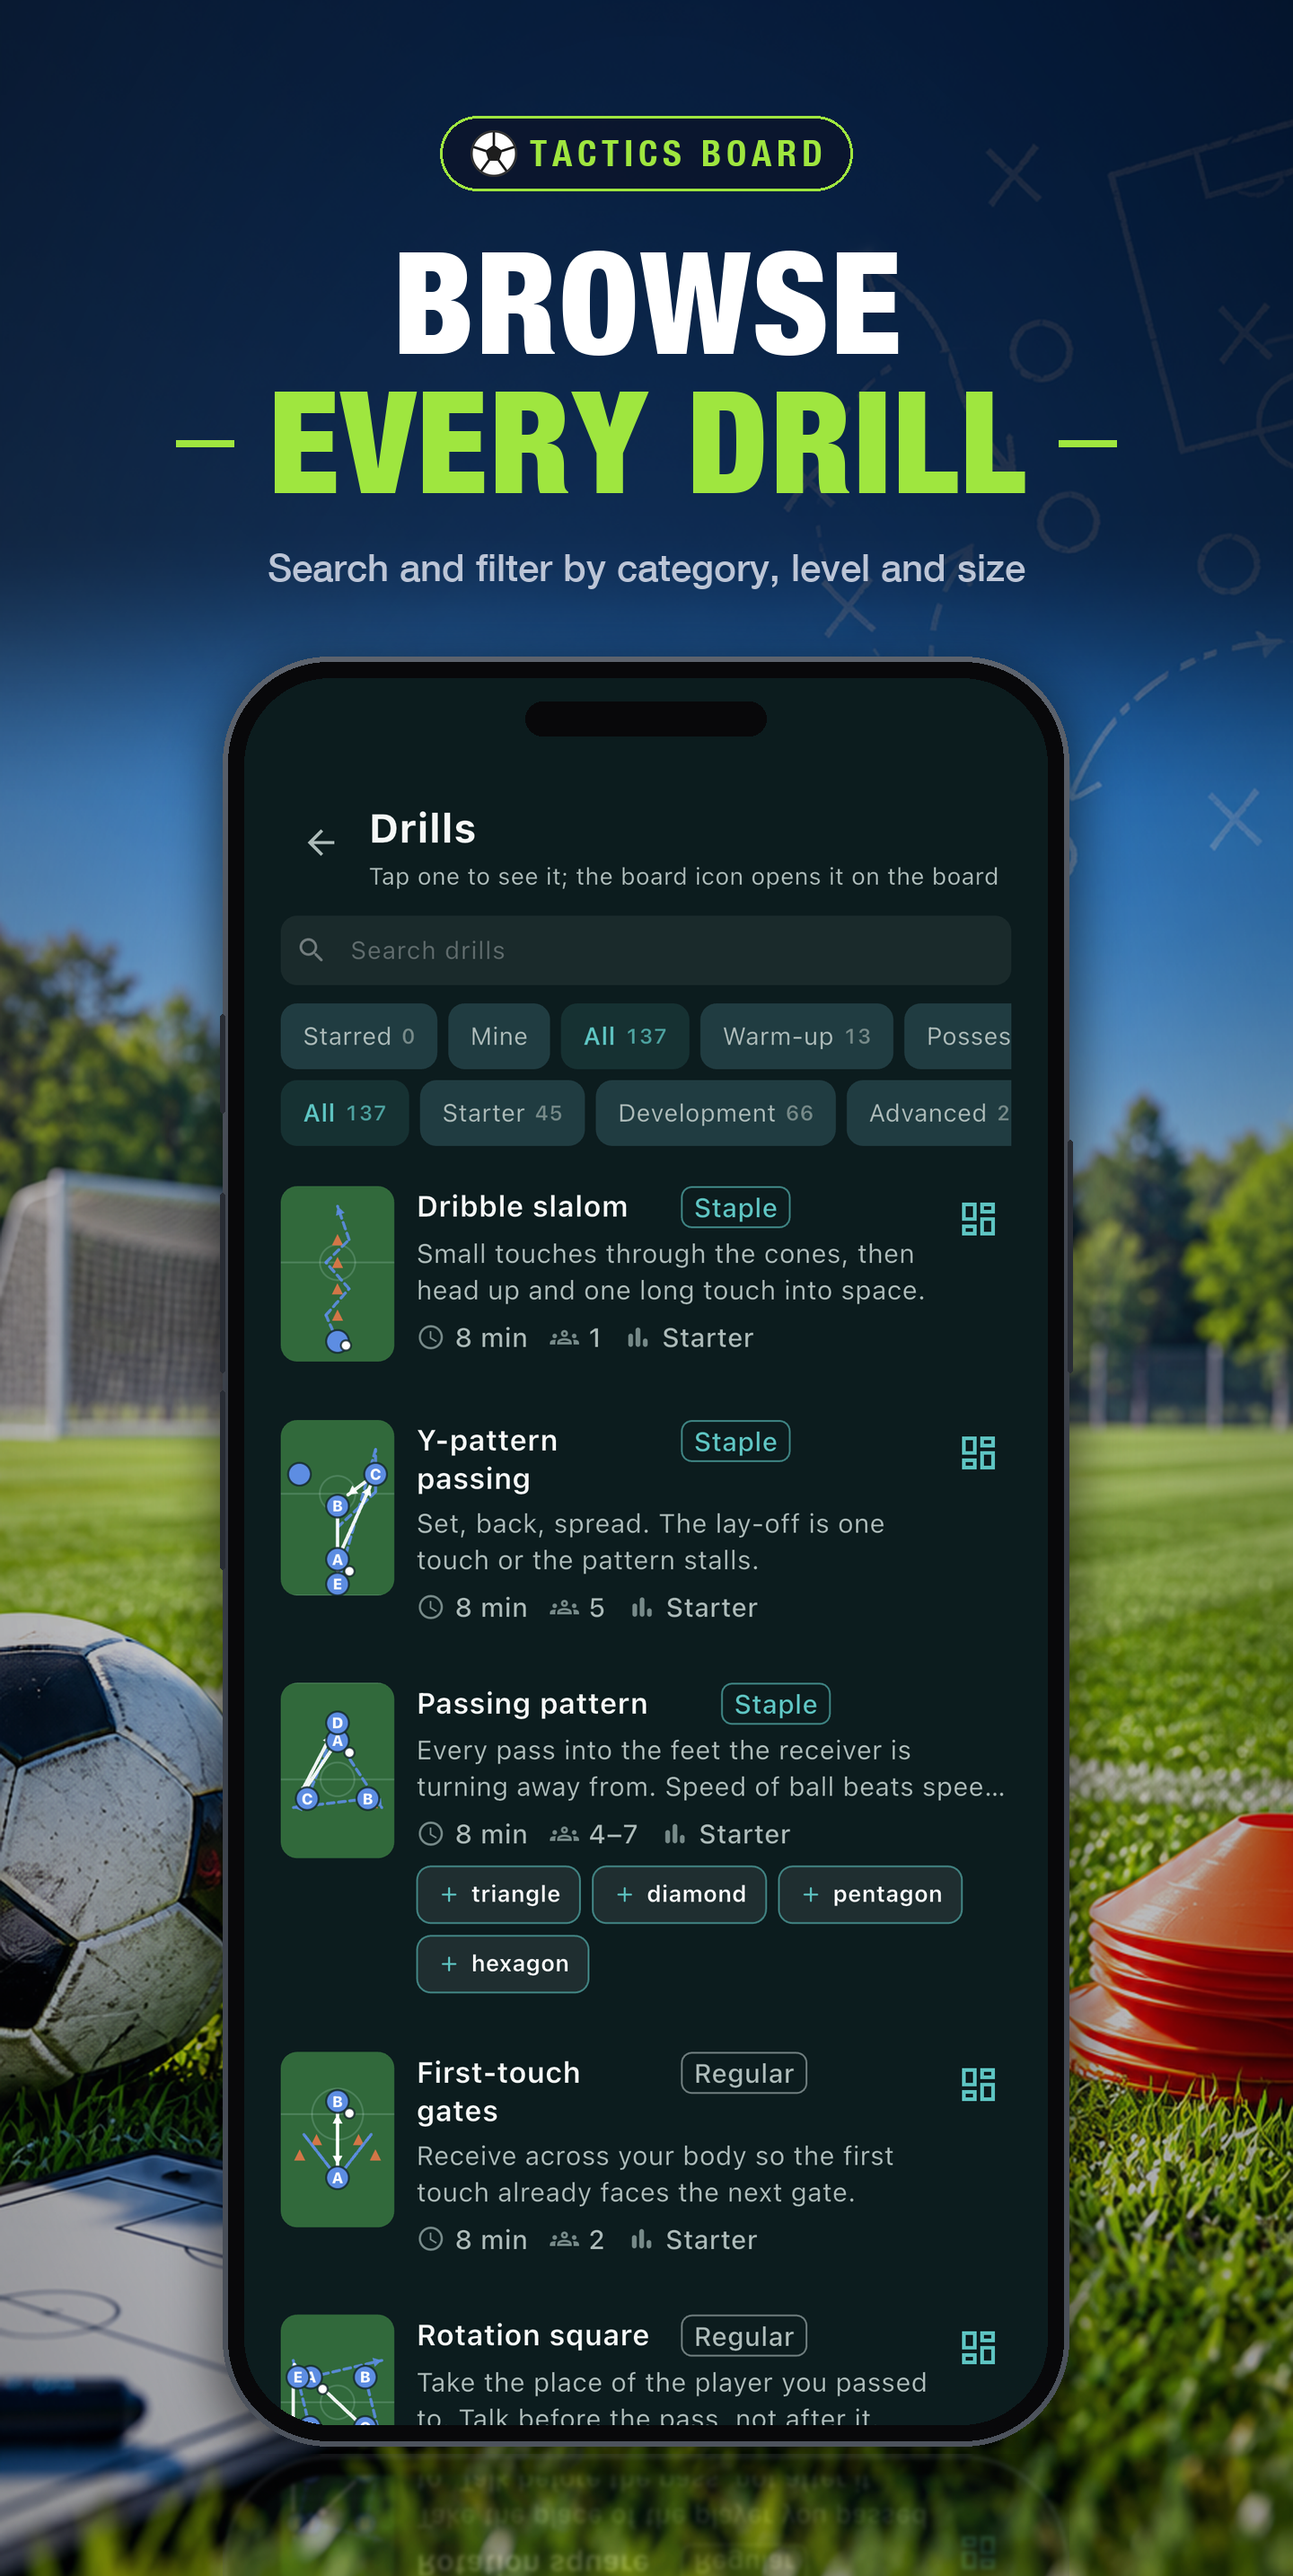
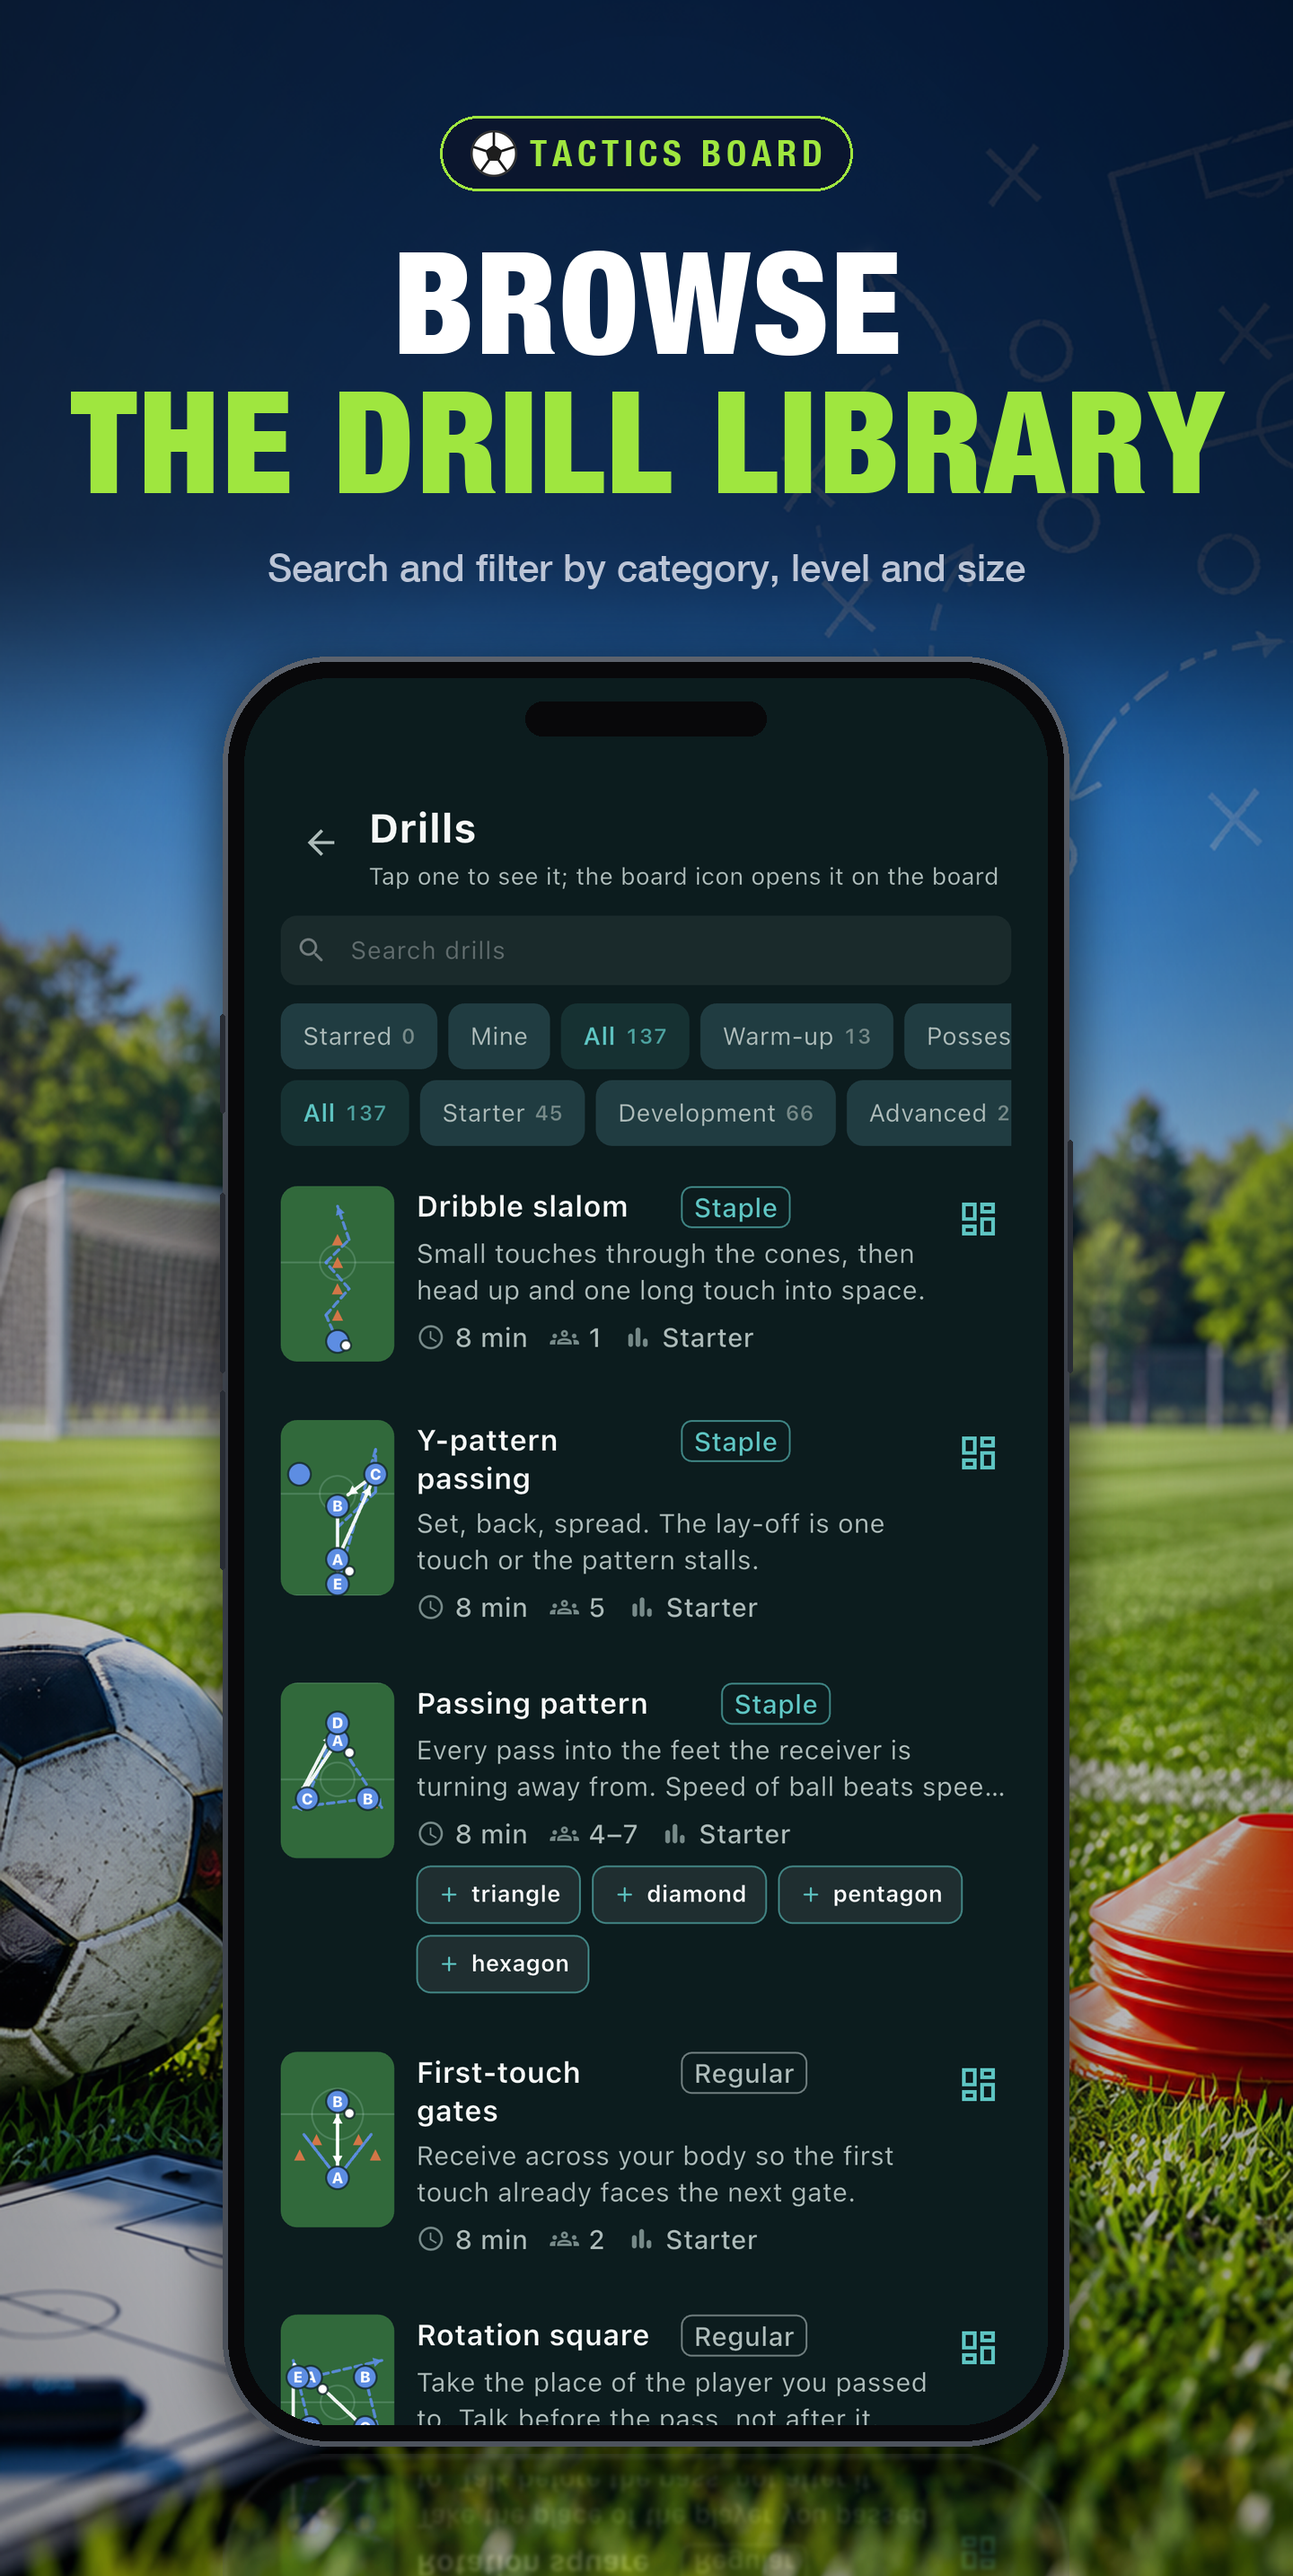
aso: undo the keyword-stuffed Chinese name, and the rest of the review's list
All 16 apps sit at 1.1.24 REJECTED. The rejection reason is not on disk,
but 1.1.21 went down for 2.3.7 and every Chinese name since has read
足球战术板-足球阵型跑位-足球定位球战术-足球教学演示 — the sport word in every
segment, the textbook case. The zh-Hans and zh-Hant name and subtitle are
plain descriptions again: 足球战术板 - 战术与训练 / 阵型、跑位、定位球与训练计划.
That freed nothing in keywords except 足球战术板 itself, which became
足球教练; 99 of 100.

The fourth and fifth captions now say the same thing in all eleven
languages: browse the drill library, run any drill. The fifth's subtitle
described the player bar under a headline about drills; it describes
putting a drill on the board now.

docs/REVIEW_NOTES_2.0.0.md is a draft with two placeholders that must be
filled by a person — the rejection reason from Resolution Center, and the
device-verification facts — and docs/DEVICE_QA_2.0.0.md is the 6.5
checklist for producing the second.

Play screenshots follow the App Store set.

Changed region(s): [[0.0625, 0.1241, 0.9375, 0.2172]]

diff --git a/SoccerBoard/docs/REVIEW_NOTES_2.0.0.md b/SoccerBoard/docs/REVIEW_NOTES_2.0.0.md
@@ -1,0 +1,80 @@
+# Review Notes — Soccer Board 2.0.0 (build 3) — DRAFT
+
+> 提交执行：从 "Dear App Review team" 到 "Thank you..." 粘贴/写入 App Review
+> Information。含占位符 `[...]` 时提交脚本必须拒绝执行（zachs_app_base.md 6.4）。
+>
+> 两处占位符必须由人填：
+> 1. `[REJECTION REASON]` — 1.1.24 的拒因，Resolution Center 里读，本地没有记录。
+>    16 个 app 同批被拒；1.1.21 的拒因是 2.3.7（副标题带「免费」）与 3.1.2(c)，
+>    2026-07 之后中文名称/副标题改成了关键词堆砌形态，2.3.7 是最可能的拒因，
+>    本版已把 zh-Hans / zh-Hant 的名称和副标题改回描述性写法。
+> 2. `[FINAL DEVICE QA REQUIRED]` — 真机验证事实，见 docs/DEVICE_QA_2.0.0.md，
+>    过完再填型号 / iOS 版本 / 过了哪些流程。
+
+---
+
+Dear App Review team,
+
+This submission follows the rejection of 1.1.24. [REJECTION REASON — one
+sentence on what was rejected and what was done about it. If 2.3.7: "The
+Simplified and Traditional Chinese app name and subtitle have been rewritten
+as plain descriptions — '足球战术板 - 战术与训练' / '阵型、跑位、定位球与训练计划' —
+and no longer repeat the sport name in every segment."]
+
+2.0.0 is a full release, not a metadata resubmission. Everything below is in
+the build and can be verified in the app.
+
+## Drill library (new)
+
+1. 137 built-in soccer drills, each an animated board with its setup, the
+   ball path and the coaching point. Drills tab → any card → "Put on the
+   board" → play.
+2. Search, and filters by category (warm-up, possession, attacking,
+   finishing, defending, set pieces, small-sided, goalkeeping, conditioning),
+   level and squad size.
+3. Every drill was audited so that each player faces the ball or their next
+   action at every beat; the audit is repeatable and shipped in the source.
+
+## Practice plans and squad (new)
+
+4. Drills and saved boards can be strung into a practice plan and run from
+   the touchline one item at a time, with a history of what was actually run.
+5. A squad page keeps players with photos and attendance per session.
+
+## Board
+
+6. Redrawn player figures that turn to face where they are going; the ball is
+   drawn at the feet of whoever holds it; the referee is a person's height.
+7. Equipment (goals, cones, poles, hurdles, rebounders, mannequins) is drawn
+   from above, so it stays upright when the board is rotated to landscape.
+8. A saved board can be shared as a web link; the recipient needs no app.
+9. A player can be copied with their run and pasted onto the next page; the
+   last hundred boards opened are one tap away from the home page.
+10. A move can be exported as a video as well as an image.
+
+## Store compliance
+
+11. Description carries the standard EULA link and the privacy policy link.
+12. The app does not request App Tracking Transparency; ads are
+    non-personalized and the privacy label declares no tracking.
+13. An optional one-time purchase (and a yearly alternative) removes ads.
+    Both products are attached to this version.
+
+## Device verification
+
+[FINAL DEVICE QA REQUIRED — replace with facts, e.g. "Verified on iPhone 15
+Pro, iOS 18.6, and iPhone SE (3rd gen), iOS 17.5: install over 1.1.24 keeps
+saved boards; all 12 languages follow the device language; every drill in the
+library loads and plays; share link opens in Safari with no app; purchase and
+restore flows complete in the sandbox."]
+
+## Demo path (about 45 seconds)
+
+Open the app → Home shows today's drills → Drills tab → tap "Passing
+pattern" → "Put on the board" → press play and watch the passes → tap a
+player to see the edit bar → back → "Practice Plan" → add the drill → run it.
+
+No login is required for any of the above. Sign in with Apple / Google is
+optional and only backs up boards to the coach's own account.
+
+Thank you for reviewing.

diff --git a/SoccerBoard/docs/DEVICE_QA_2.0.0.md b/SoccerBoard/docs/DEVICE_QA_2.0.0.md
@@ -1,0 +1,70 @@
+# 真机 QA — Soccer Board 2.0.0 (3)
+
+zachs_app_base.md 6.5：每次发布前必须在真机上完整过一遍，模拟器不能替代。
+过完把型号 / iOS 版本 / 日期填到最上面，再把结论写进
+`REVIEW_NOTES_2.0.0.md` 的 Device verification 段。
+
+- 机型 / 系统：`________________`　日期：`________`
+- 安装方式：覆盖安装在 1.1.24 之上（＝商店更新路径），不是卸了重装
+
+## 覆盖安装后数据完好
+- [ ] 1.1.24 里保存的战术板都在，能打开
+- [ ] 球队、球员照片都在（照片只存文件名，不存沙盒绝对路径）
+- [ ] 训练计划与历史都在
+- [ ] 「最近」列表有内容
+
+## 语言（12 种，改系统语言验证，不信 launch args）
+- [ ] 系统切到 zh-Hans / ja / th / vi 各一次：界面跟着变，无翻译键裸奔
+- [ ] 桌面显示名跟着变（InfoPlist.strings）
+- [ ] 相机 / 相册权限弹窗文案是当前语言
+- [ ] 最长语言（th、vi）下：底部 Tab、Add 面板、球员编辑栏、时间轴无溢出无截断
+
+## 训练素材库（本版主打）
+- [ ] 137 个训练都能打开详情页，缩略图不空白
+- [ ] 搜索、类别、难度、人数筛选各试一个
+- [ ] 任选 5 个「放到板上」→ 播放到底，球员朝向不背对球
+- [ ] 收藏一个，重启后还在
+- [ ] 未购买 Pro：付费训练显示「解锁」，免费训练能直接放到板上
+
+## 战术板
+- [ ] 横竖屏切换：锥桶、球门、标志杆保持直立，名字仍在球员脚下
+- [ ] 播放时只有一个球，起点没有淡影
+- [ ] 选中球员：编辑栏出现，位置 / 跑位 / 颜色 / 号码 / 球衣可改
+- [ ] 复制球员到下一页，跑位一起过去
+- [ ] 撤销 / 重做各三次不崩
+
+## 训练计划
+- [ ] 新建计划 → 加两个训练 + 一个自己的板 → 从边线运行 → 历史里有记录
+
+## 分享与导出
+- [ ] 分享为链接：链接在 Safari 里打开能看到板，不需要装 app
+- [ ] 导出图片、导出视频各一次，相册里能看到
+- [ ] 分享前不弹开屏广告
+
+## 广告（未购买 Pro 时）
+- [ ] 冷启动开屏广告出现一次；4 分钟内切回不再弹
+- [ ] 分享成功后插屏最多一次；两个全屏广告间隔 ≥4 分钟
+- [ ] 广告不遮底部 Tab；关闭后界面正常
+
+## 内购
+- [ ] 沙盒账号：购买一次性去广告 → 广告立刻消失 → 重启仍无广告
+- [ ] 恢复购买有效
+- [ ] 订阅项能拉到价格
+
+## 登录（可选功能）
+- [ ] Sign in with Apple 能进能退
+- [ ] 不登录时所有上面的功能都可用
+
+## 启动图与图标
+- [ ] 卸载 + 重启设备 + 重装后看启动图（iOS 缓存 launch screen）：无乱码、无文字、无第三方商标
+
+## 联系我们
+- [ ] 我的 → 联系我们 → 发一封，收到
+
+## 结论
+- [ ] 全部通过，已把事实写入 REVIEW_NOTES_2.0.0.md
+- [ ] 有问题：列在下面，修完重跑本清单
+
+```
+问题：
+```
